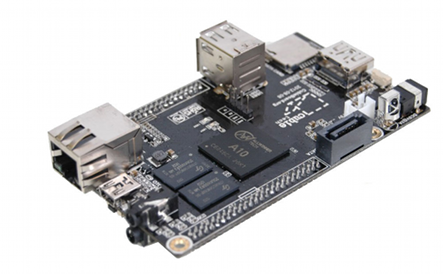
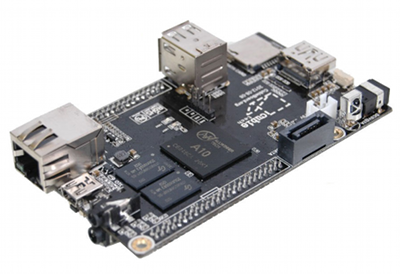
Select hardware page

Changed region(s): [[0.0, 0.0584, 0.99, 0.9635]]

diff --git a/_includes/header.html b/_includes/header.html
@@ -1,17 +1,14 @@
-<head>
-    <meta charset="utf-8">
-    <meta http-equiv="X-UA-Compatible" content="IE=edge">
-    <meta name="viewport" content="width=device-width, initial-scale=1">
-    <link rel="shortcut icon" href="favicon.ico">
+<meta charset="utf-8">
+<meta http-equiv="X-UA-Compatible" content="IE=edge">
+<meta name="viewport" content="width=device-width, initial-scale=1">
+<link rel="shortcut icon" href="favicon.ico">
 
-    <title>Syncloud</title>
+<title>Syncloud</title>
 
-    <!-- Bootstrap core CSS -->
-    <link href="http://netdna.bootstrapcdn.com/bootstrap/3.1.0/css/bootstrap.min.css" rel="stylesheet">
+<!-- Bootstrap core CSS -->
+<link href="http://netdna.bootstrapcdn.com/bootstrap/3.1.0/css/bootstrap.min.css" rel="stylesheet">
 
-    <!-- Font awesome CSS -->
-    <link href="//netdna.bootstrapcdn.com/font-awesome/4.0.3/css/font-awesome.css" rel="stylesheet">
-    
-    <link href="css/device.css" rel="stylesheet">
+<!-- Font awesome CSS -->
+<link href="//netdna.bootstrapcdn.com/font-awesome/4.0.3/css/font-awesome.css" rel="stylesheet">
 
-</head>
+<link href="css/hardware.css" rel="stylesheet">

diff --git a/_layouts/device.html b/_layouts/device.html
@@ -1,6 +1,11 @@
 <!DOCTYPE html>
 <html lang="en">
-{% include header.html %}
+
+<head>
+    {% include header.html %}
+    
+    <link href="css/device.css" rel="stylesheet">
+</head>
 
 <body>
 

diff --git a/css/hardware.css b/css/hardware.css
@@ -1,0 +1,8 @@
+/* Class for adding dark grey border to board image */
+.hardware_box img {
+    border: #999999 1px solid;
+}
+
+.hardware_box {
+    text-align: center;
+}

diff --git a/_layouts/default.html b/_layouts/default.html
@@ -1,6 +1,9 @@
 <!DOCTYPE html>
 <html lang="en">
-{% include header.html %}
+
+<head>
+    {% include header.html %}
+</head>
 
 <body>
 
